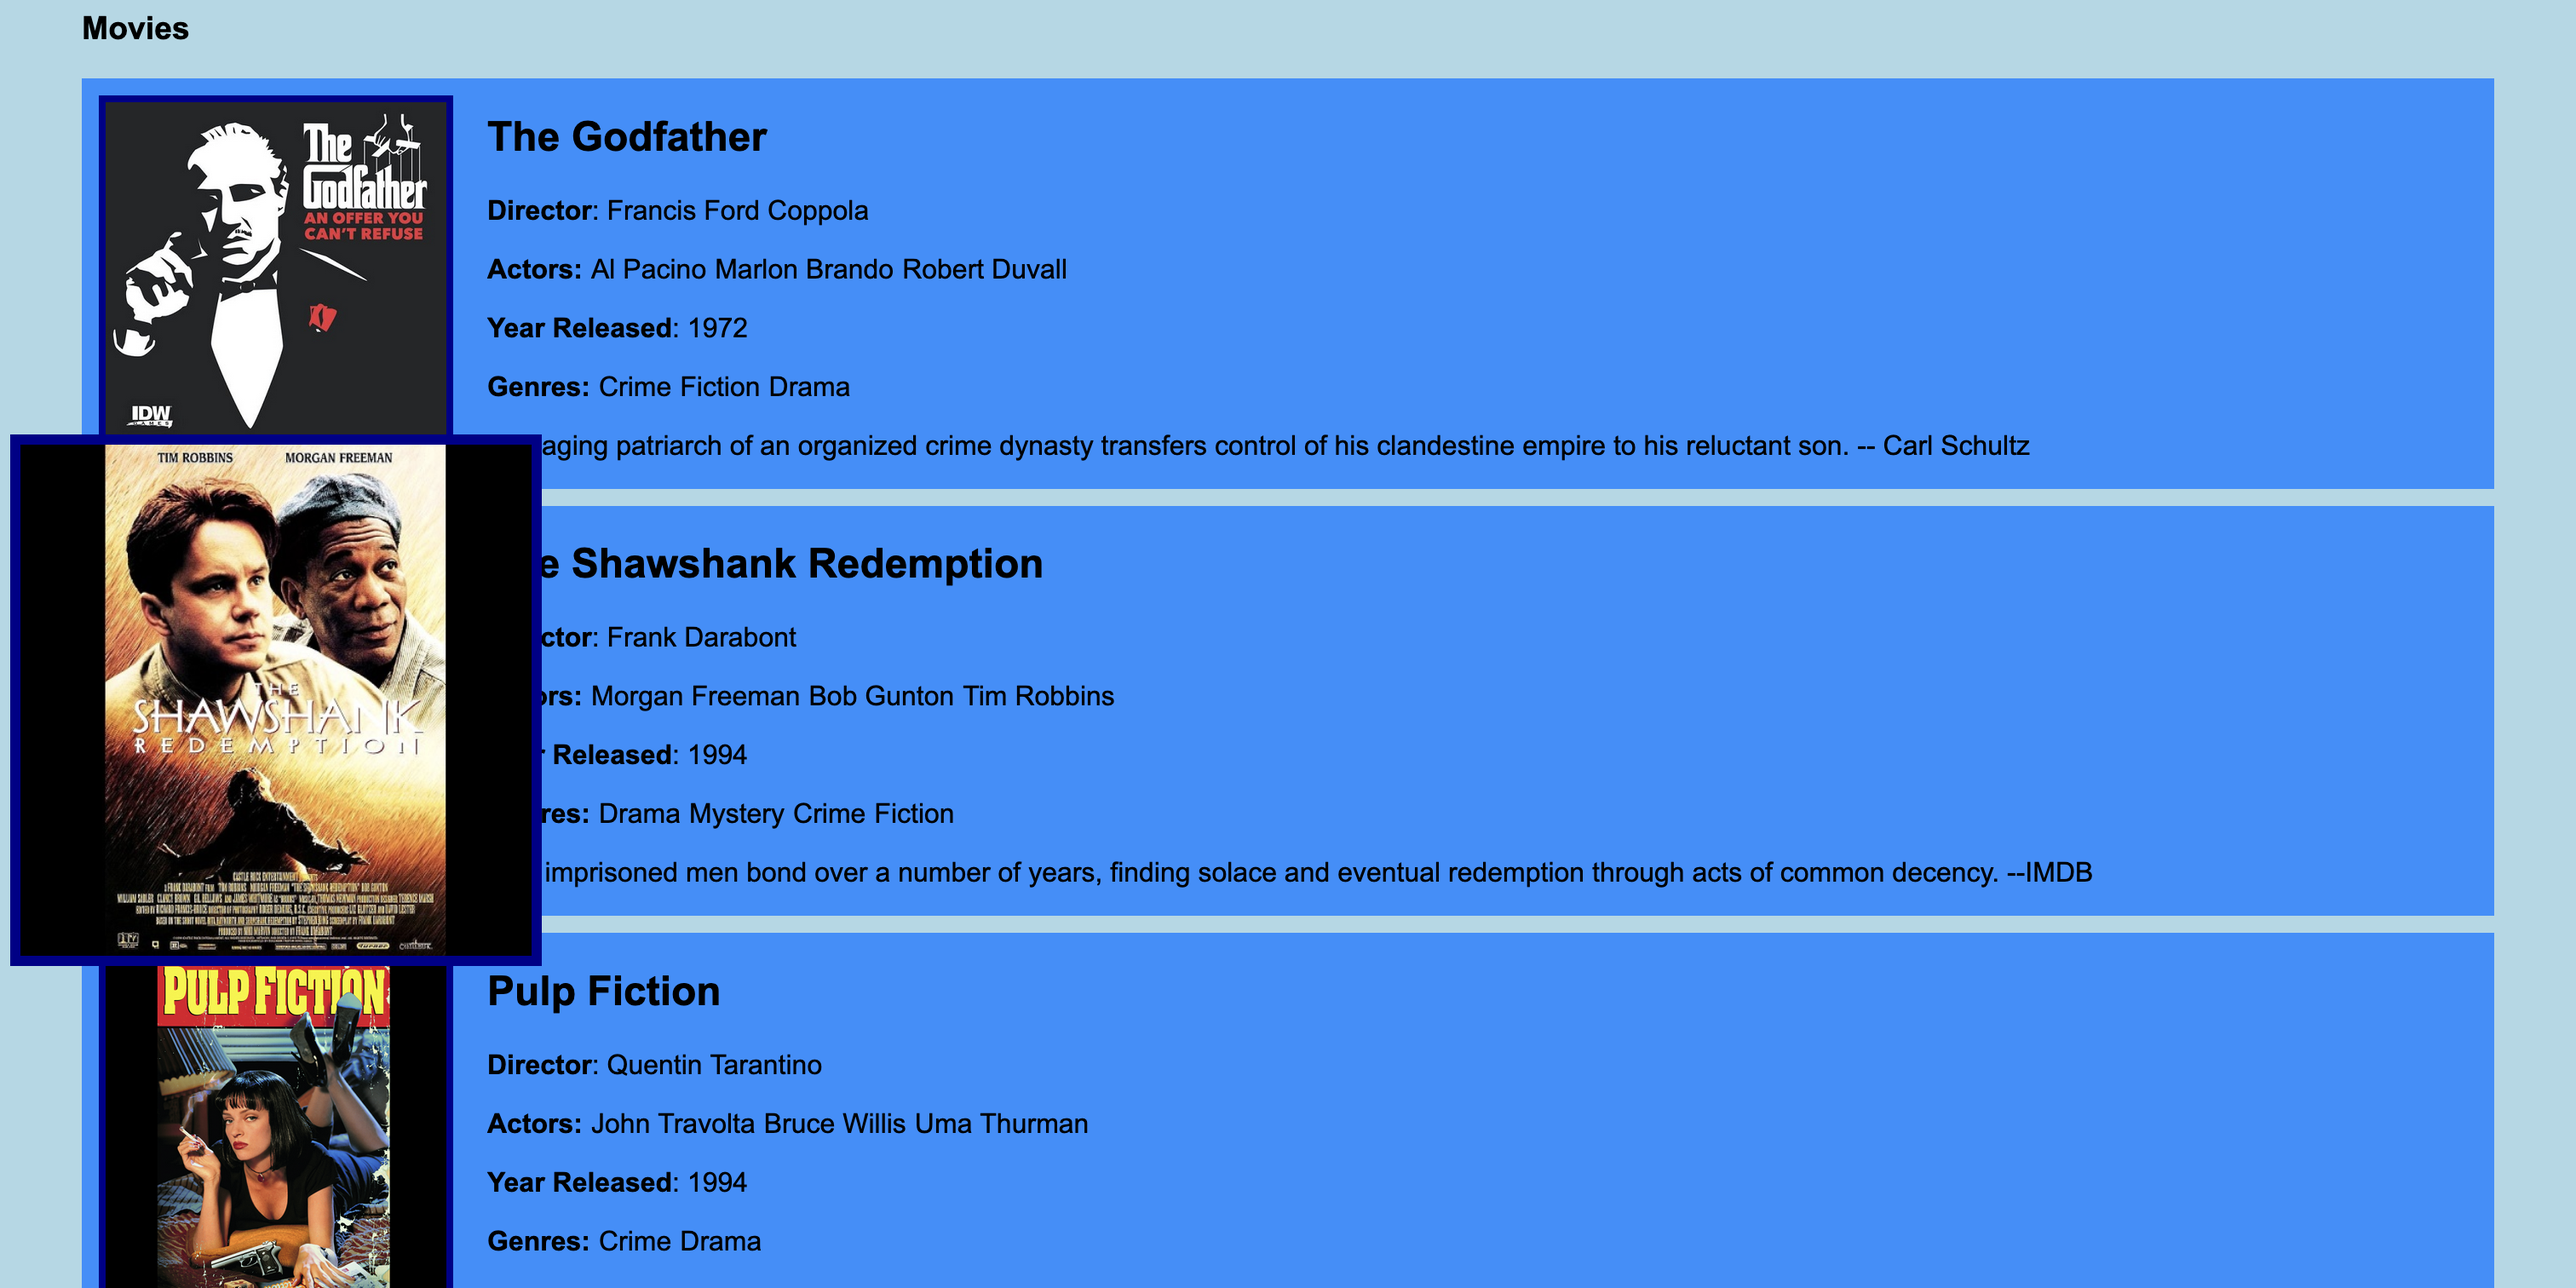
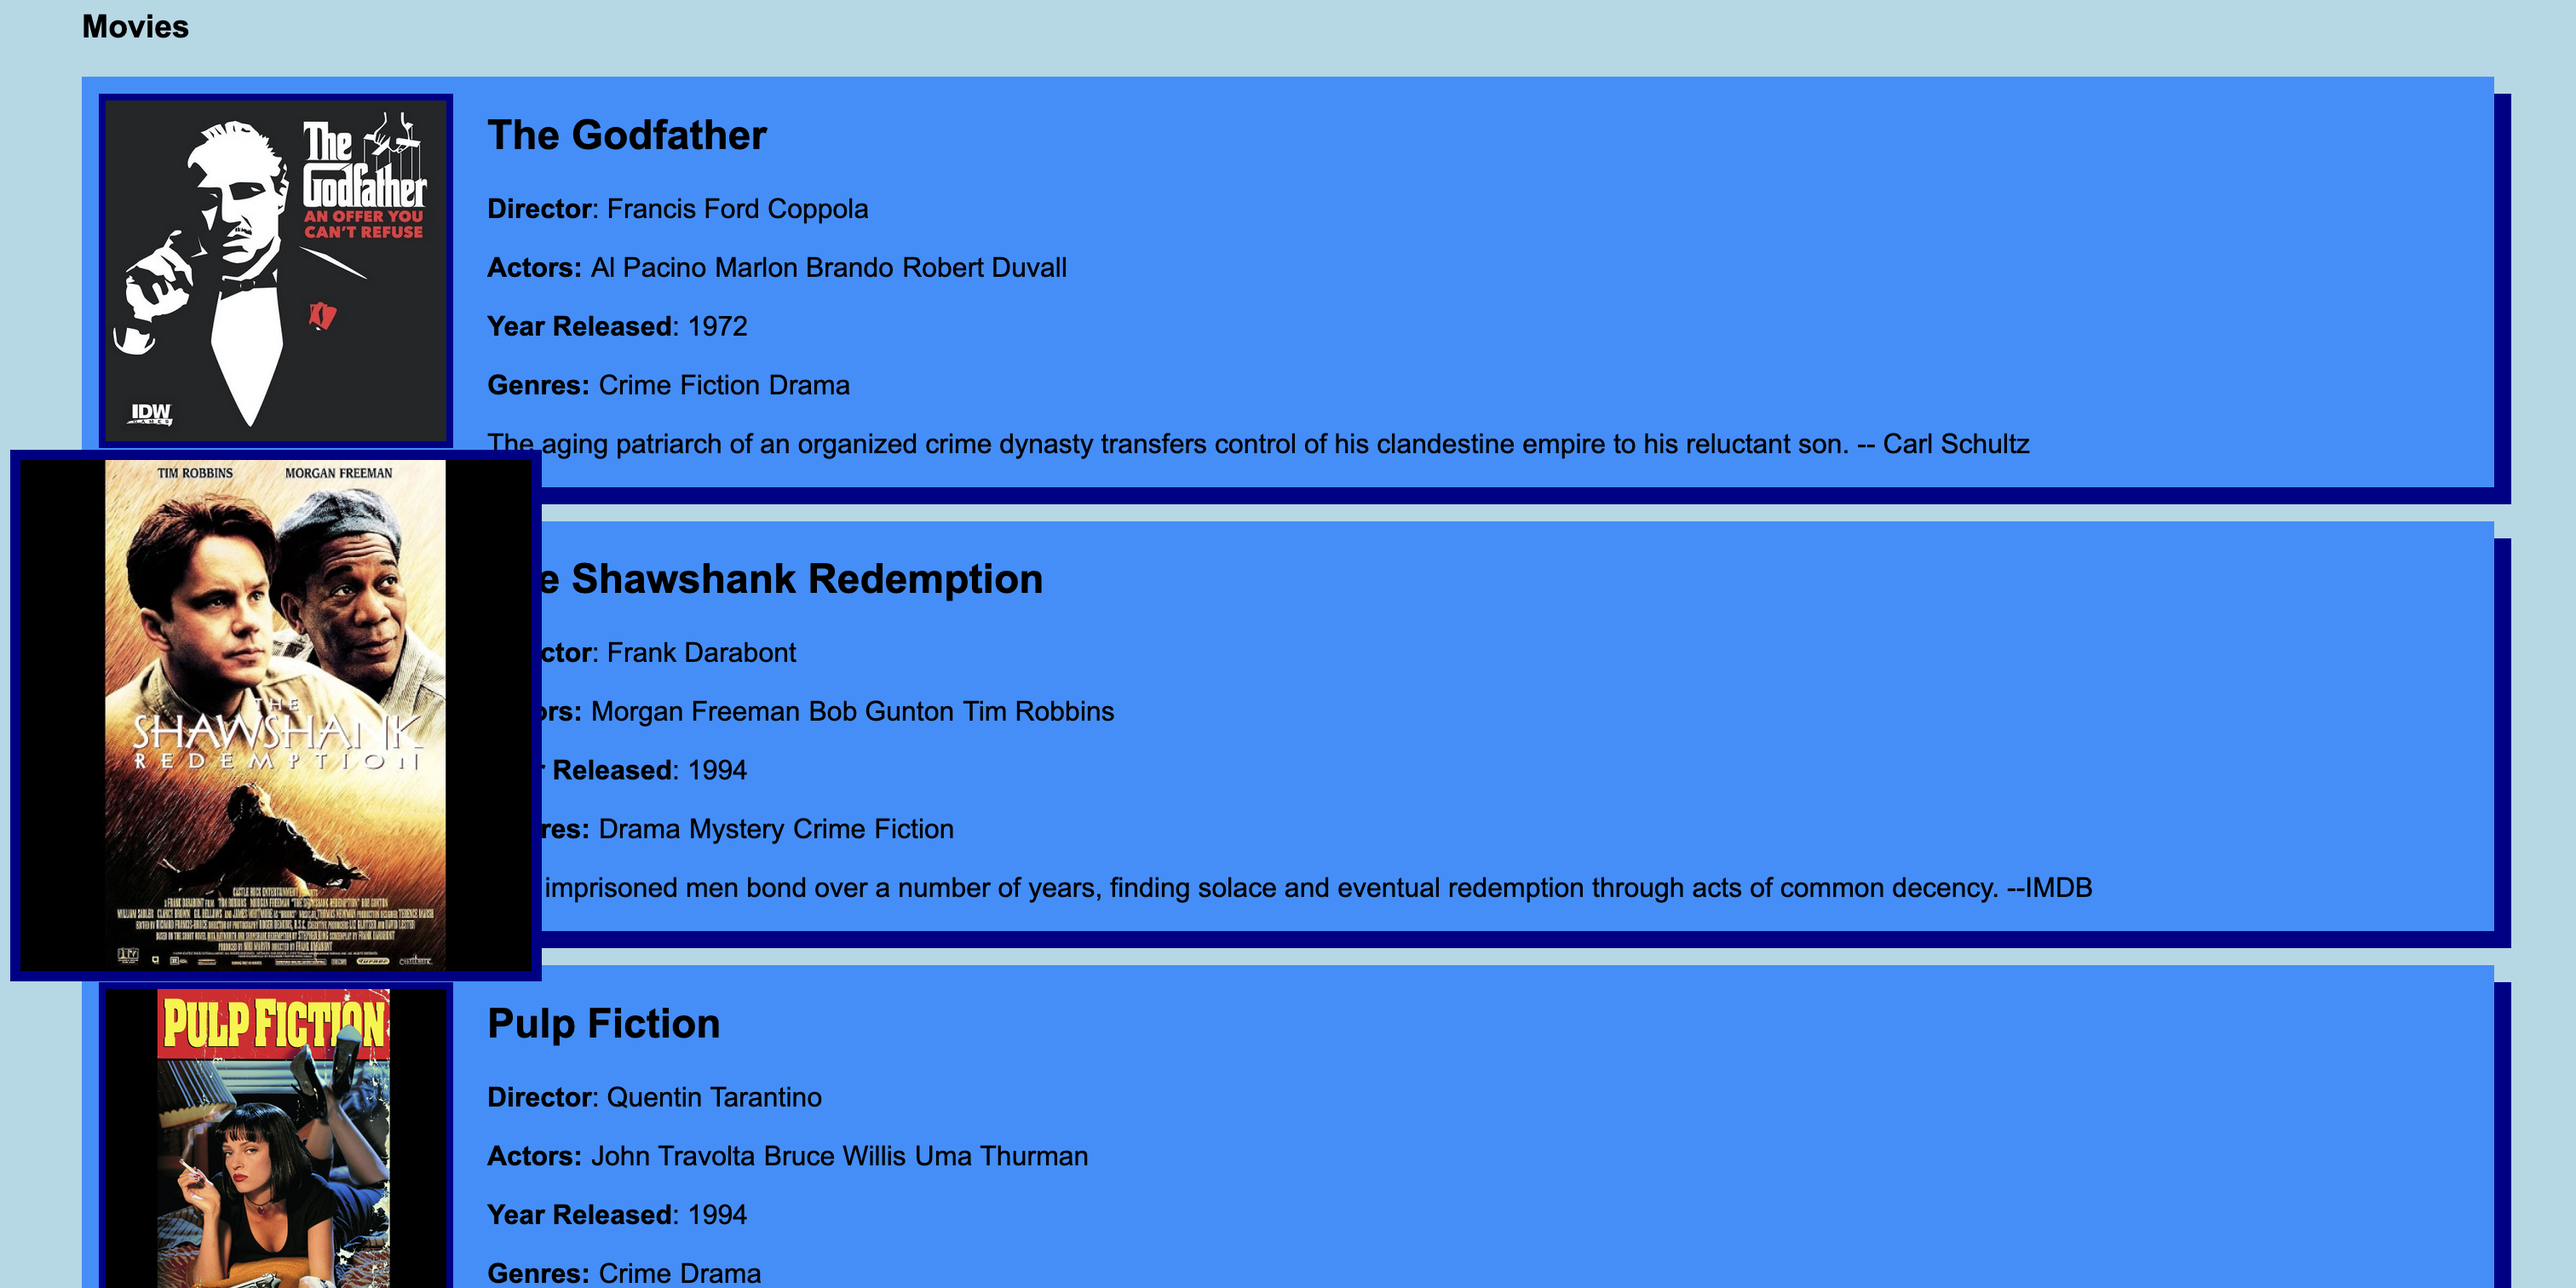
styled and added to main

diff --git a/assignments/assignment11/styles.css b/assignments/assignment11/styles.css
@@ -13,11 +13,12 @@ h3 {
 div {
     display: flex;
     background-color: dodgerblue;
-    margin-bottom: 10px;
+    margin-bottom: 20px;
     padding-left: 10px;
     padding-right: 10px;
     margin-left: 40px;
     margin-right: 40px;
+    box-shadow: 10px 10px darkblue;
 }
 
 img {
